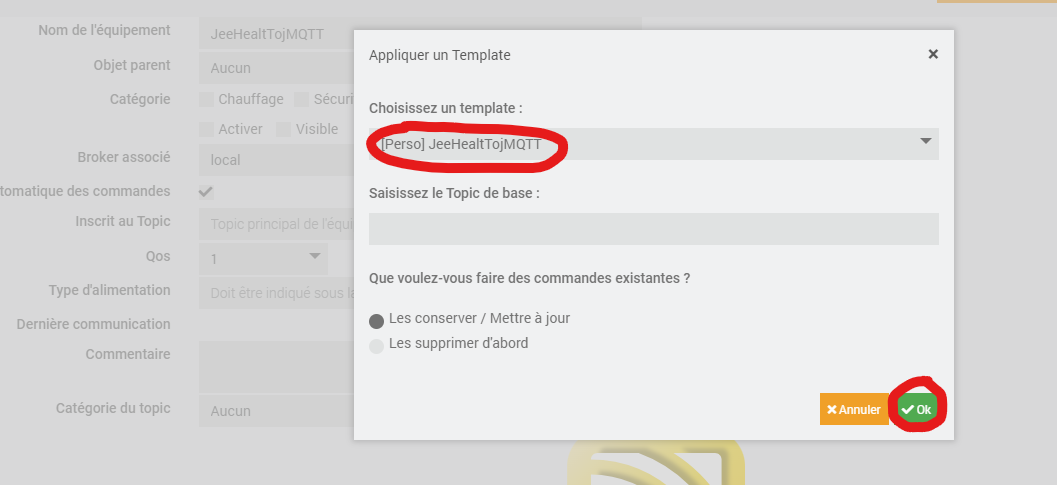
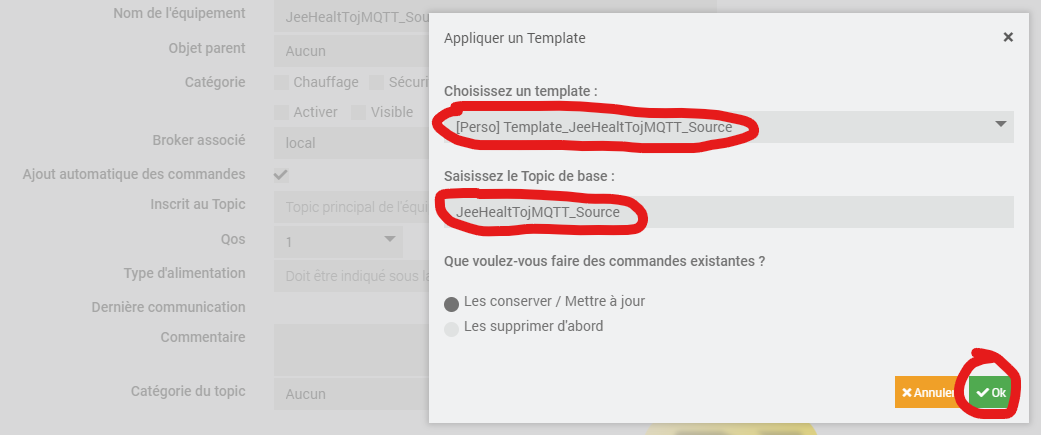
beta

diff --git a/JeeHealtTojMQTT/README.md b/JeeHealtTojMQTT/README.md
@@ -20,27 +20,42 @@ Pour résumer les éléments a mettre en place :
   - Le widget.
 
 ## 1) Installation sur le Jeedom "source".
-Il vous faudra avant tout creer un équipement jMQTT sur le broker de votre choix.
+
+Telecharger le template "[Template_JeeHealtTojMQTT_Source](Template_JeeHealtTojMQTT_Source.json)".
 
 ![](doc/images/jMQTT_Source_1.png)
 
-Telecharger le template "[a relative link](JeeHealtTojMQTT_Source.json)".
-
-Importer ce template dans le plugin jMQTT :
+Importer le template dans le plugin jMQTT :
 
 ![](doc/images/jMQTT_Source_2.png)
 ![](doc/images/jMQTT_Source_3.png)
 
 Toujours dans le plugin, creer un nouvel équipement sur le broker de votre choix.
-Nommer le comme vous le souhaitez, mais pour une meilleur compréhension de ce tuto, je vais le nommer "JeeHealtTojMQTT".
-Appliquer le template :
+Nommer le comme vous le souhaitez, mais pour une meilleur compréhension de ce tuto, je vais le nommer "JeeHealtTojMQTT_Source".
+1) Appliquer le template :
 
 ![](doc/images/jMQTT_Source_4.png)
+
+2) Choisir le template et saisir le Topic de base "JeeHealtTojMQTT_Source".
+
 ![](doc/images/jMQTT_Source_5.png)
+
+3) Activer et sauvegarder l'équipement.
+
 ![](doc/images/jMQTT_Source_6.png)
 
 A ce stade, vous devriez avoir un équipement jMQTT de ce type :
+
 ![](doc/images/jMQTT_Source_7.png)
+
+Veuillez noter l'id de la comande entourer ci-dessus, vous en aurez besoin pour le scénario.
+--------------------------------------------
+
+Maintenant nous allons creer les 2 scénarios.
+
+1) Scénario qui permet de publier l'état de jeedom.
+
+
 
 
 ## Paramètres Optionnels :
